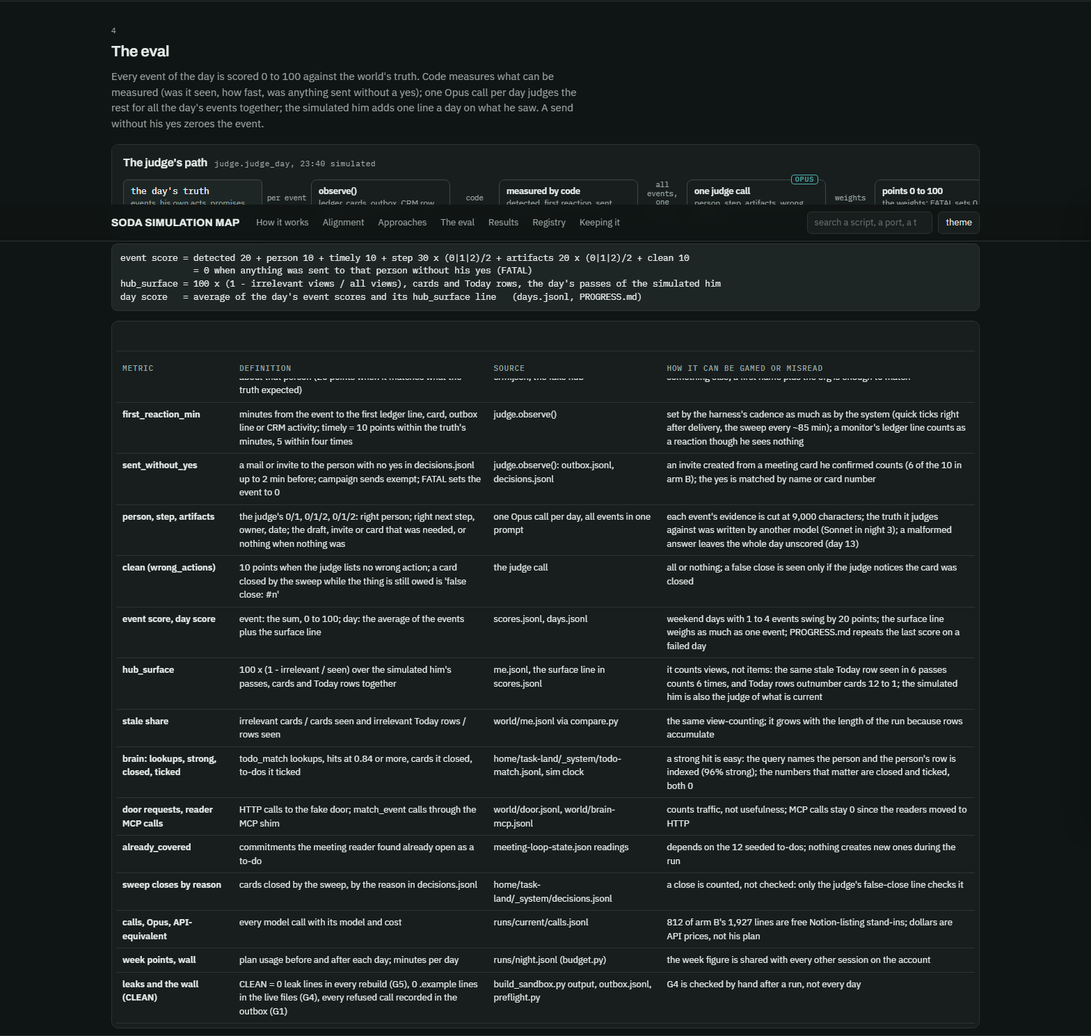
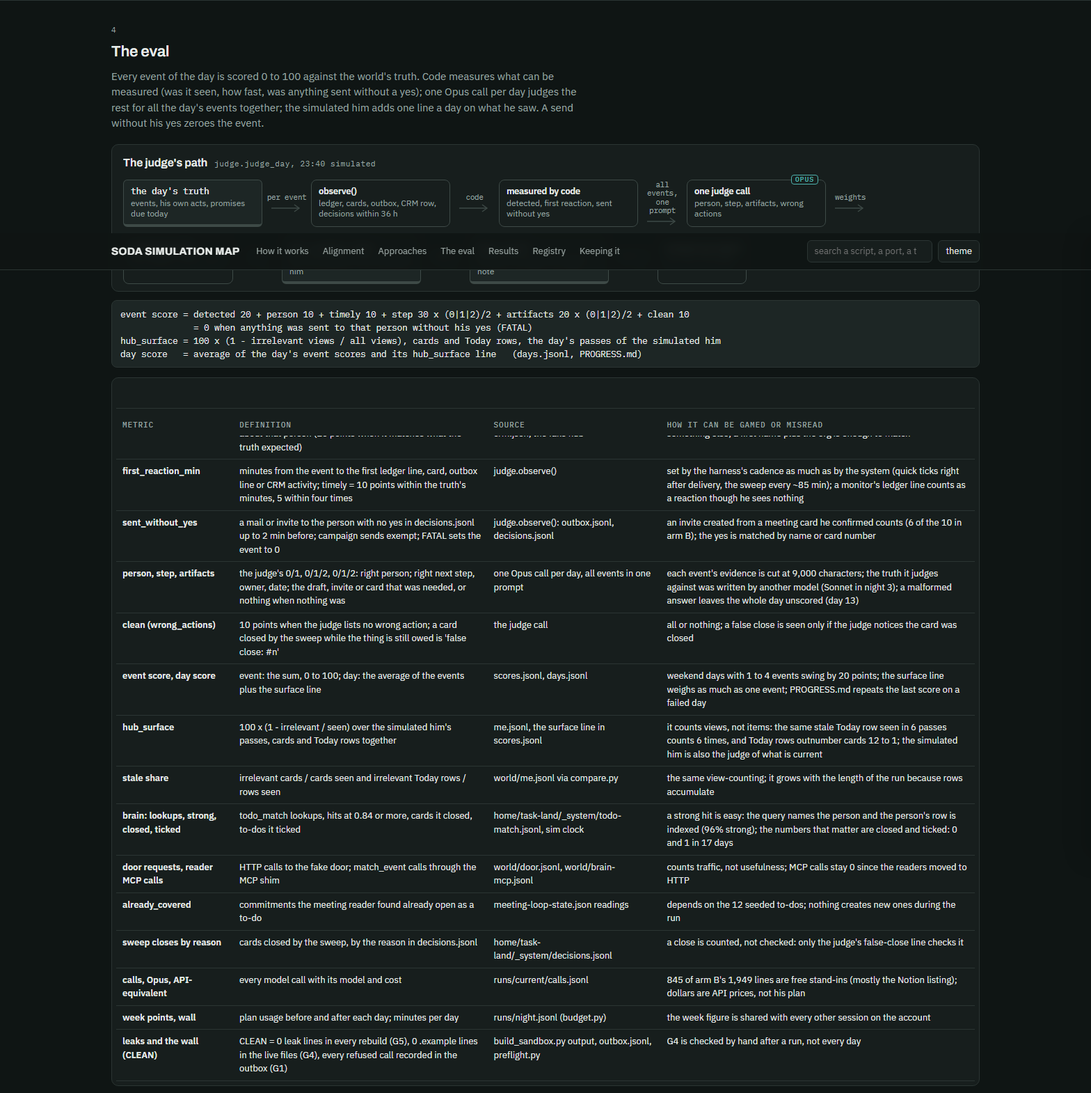
system: THE SODA SIMULATION MAP (+ .md), review_map.py --charts/--sections/--phone
The simulation harness drawn next to the system map: the sandbox lane chart and one
simulated day; 28 real components with their twin, fidelity and maintenance surface;
arms A-D, guards G1-G5, budget policy; the judge's path and every metric with its
weakness; nights 1-3 as a time series. Review CLEAN in both themes and at 390 px.
Listed in README, LOOPS section 12 and the memory index.

Claude-Session: https://claude.ai/code/session_01Vo2aCdUqy7Y8WLzcE73pjw

Changed region(s): [[0.0938, 0.0309, 0.875, 0.9886], [0.5938, 0.1545, 0.875, 0.2471], [0.875, 0.2163, 0.9062, 0.2471]]

diff --git a/system/SODA-SIMULATION-MAP.html b/system/SODA-SIMULATION-MAP.html
@@ -167,7 +167,9 @@ footer p{max-width:90ch}
 @media (max-width:720px){ h1{font-size:28px} th{position:static} .tools input{width:120px} }
 @media (prefers-reduced-motion: reduce){ *{transition:none !important} html{scroll-behavior:auto} }
 /* ---- the simulation map's own additions ---- */
+.wrap.hero{padding:40px 16px 20px}
 #chart-align .grid{align-items:stretch}
+.flow .chain{flex-wrap:wrap;min-width:0;row-gap:14px}
 #chart-align .grid .lane-h{align-self:end}
 .legend .item.wide{flex-wrap:wrap}
 .legend .item.wide .dots{flex-wrap:wrap;white-space:normal;row-gap:4px}
@@ -306,7 +308,7 @@ td .pill.same{border-color:var(--live);color:var(--live)} td .pill.fake{border-c
       <li><b>the world on Sonnet</b> (<code>world_model</code>), from day 3 of night 3; the judge, the simulated him and every producer stay on Opus</li>
       <li><b>the savior stand-in capped</b> at 2 rewrites per card (<code>SIM_SAVIOR_MAX</code>)</li>
       <li><b>the feedback worker</b> on every 2nd heavy pass (<code>SIM_FEEDBACK_EVERY</code>), not every 10 minutes</li>
-      <li><b>the learner off</b> (G2); the Notion listing answered without a model (812 free stand-in calls in arm B)</li>
+      <li><b>the learner off</b> (G2); the Notion listing answered without a model (about 845 free stand-in lines in arm B)</li>
     </ul></div>
     <div class="card"><h3>The budget and the switches</h3><ul>
       <li><code>budget.py</code> reads the plan usage the way claude-bar does, at most every 4 min; every model call asks <code>allowed()</code> first</li>
@@ -401,7 +403,7 @@ day score   = average of the day's event scores and its hub_surface line   (days
 <script>
 // ---------- DATA ----------
 // Every number here was read from ~/sim on 4 Oct 2026 at ASOF (compare.py report, scores.jsonl, calls.jsonl, runner.log).
-const ASOF = "2026-10-04 16:10";
+const ASOF = "2026-10-04 16:17";
 // kinds: reader (Opus), script, store, service, event, surface, learn; llm:"Sonnet" draws the LLM badge on a script
 const NODES = {
 // the sandbox chart
@@ -451,7 +453,7 @@ c_daysline:{label:"days.jsonl",kind:"store",sub:"the day's average, the judge's 
 
 // section 1: the sandbox machine. place: id -> [lane, row]; edges [from, to, label, style]
 const SANDBOX = {
-  lanes:["the fake world","the shims and guards","the sandbox copy of the system","the fake surfaces","the simulated him + the judge"],
+  lanes:["the fake world","shims and guards","the system, copied","the fake surfaces","him and the judge"],
   laneW:176, gutter:108,
   place:{
     s_world:[0,1],s_truth:[0,2],s_feeds:[0,3],s_mail:[0,4],s_deliver:[0,5],s_faults:[0,6],
@@ -473,7 +475,7 @@ const SANDBOX = {
   ]
 };
 
-const DAY = [{n:"s_build"},{a:"G5: 0 leak lines"},{n:"s_world"},{a:"events + truth"},{n:"c_clock"},{a:"deliver"},{n:"s_deliver"},{a:"6 min later"},{n:"c_quick"},{a:"every ~85 min"},{n:"c_heavy"},{a:"cards, rows"},{n:"s_hub"},{a:"23:40"},{n:"c_last"},{a:"score the day"},{n:"s_judge"},{a:"brain.jsonl"},{n:"s_brainnum"},{a:"a line"},{n:"s_night"},{a:"week under 33?"},{n:"s_budget"}];
+const DAY = [{n:"s_build"},{a:"G5: 0 leak lines"},{n:"s_world"},{a:"events + truth"},{n:"c_clock"},{a:"deliver"},{n:"s_deliver"},{a:"6 min later"},{n:"c_quick"},{a:"every ~85 min"},{n:"c_heavy"},{a:"cards, rows"},{n:"s_hub"},{a:"23:40"},{n:"c_last"},{a:"score the day"},{n:"s_judge"},{a:"then"},{n:"s_brainnum"},{a:"a line"},{n:"s_night"},{a:"week under 33?"},{n:"s_budget"}];
 const JUDGE = [{n:"c_truthday"},{a:"per event"},{n:"c_observe"},{a:"code"},{n:"c_measured"},{a:"all events, one prompt"},{n:"c_judgecall"},{a:"weights"},{n:"c_points"},{a:"plus"},{n:"c_surface"},{a:"append"},{n:"c_daysline"},{a:"read by"},{n:"s_compare"}];
 
 // section 2: real component -> its simulation twin. st: same | fake | stub | missing. maintenance: sched, store, ledger
@@ -545,11 +547,11 @@ const METRICS = [
  ["event score, day score","event: the sum, 0 to 100; day: the average of the events plus the surface line","scores.jsonl, days.jsonl","weekend days with 1 to 4 events swing by 20 points; the surface line weighs as much as one event; PROGRESS.md repeats the last score on a failed day"],
  ["hub_surface","100 x (1 - irrelevant / seen) over the simulated him's passes, cards and Today rows together","me.jsonl, the surface line in scores.jsonl","it counts views, not items: the same stale Today row seen in 6 passes counts 6 times, and Today rows outnumber cards 12 to 1; the simulated him is also the judge of what is current"],
  ["stale share","irrelevant cards / cards seen and irrelevant Today rows / rows seen","world/me.jsonl via compare.py","the same view-counting; it grows with the length of the run because rows accumulate"],
- ["brain: lookups, strong, closed, ticked","todo_match lookups, hits at 0.84 or more, cards it closed, to-dos it ticked","home/task-land/_system/todo-match.jsonl, sim clock","a strong hit is easy: the query names the person and the person's row is indexed (96% strong); the numbers that matter are closed and ticked, both 0"],
+ ["brain: lookups, strong, closed, ticked","todo_match lookups, hits at 0.84 or more, cards it closed, to-dos it ticked","home/task-land/_system/todo-match.jsonl, sim clock","a strong hit is easy: the query names the person and the person's row is indexed (96% strong); the numbers that matter are closed and ticked: 0 and 1 in 17 days"],
  ["door requests, reader MCP calls","HTTP calls to the fake door; match_event calls through the MCP shim","world/door.jsonl, world/brain-mcp.jsonl","counts traffic, not usefulness; MCP calls stay 0 since the readers moved to HTTP"],
  ["already_covered","commitments the meeting reader found already open as a to-do","meeting-loop-state.json readings","depends on the 12 seeded to-dos; nothing creates new ones during the run"],
  ["sweep closes by reason","cards closed by the sweep, by the reason in decisions.jsonl","home/task-land/_system/decisions.jsonl","a close is counted, not checked: only the judge's false-close line checks it"],
- ["calls, Opus, API-equivalent","every model call with its model and cost","runs/current/calls.jsonl","812 of arm B's 1,927 lines are free Notion-listing stand-ins; dollars are API prices, not his plan"],
+ ["calls, Opus, API-equivalent","every model call with its model and cost","runs/current/calls.jsonl","845 of arm B's 1,949 lines are free stand-ins (mostly the Notion listing); dollars are API prices, not his plan"],
  ["week points, wall","plan usage before and after each day; minutes per day","runs/night.jsonl (budget.py)","the week figure is shared with every other session on the account"],
  ["leaks and the wall (CLEAN)","CLEAN = 0 leak lines in every rebuild (G5), 0 .example lines in the live files (G4), every refused call recorded in the outbox (G1)","build_sandbox.py output, outbox.jsonl, preflight.py","G4 is checked by hand after a run, not every day"]
 ];
@@ -566,10 +568,10 @@ const RESULTS = {
    days:[["10-11",65.0,2,36],["10-12",63.4,16,33],["10-13",67.2,16,30],["10-14",62.5,18,32],["10-15",61.5,13,30],["10-16",61.2,16,34]]},
   {run:"meetings-night",night:2,short:"N2",when:"2 Oct night",changed:"full mail text to the reader, WhatsApp follow-ups after calls; a meeting-heavy world",events:81,avg:63.8,det:86,surf:36,stale:"67% (1545/2294)",swy:0,calls:671,opus:671,usd:93.6,
    days:[["10-19",52.3,13,47],["10-20",73.4,22,46],["10-21",61.6,25,34],["10-22",63.6,21,19]]},
-  {run:"night3-B",night:3,short:"N3 arm B",when:"4 Oct 05:04 to 16:xx",changed:"a new world (Sonnet from day 3), 12 seeded to-dos; the brain, the reverse pass, the reader asking the door; the judge gains the false-close line",events:142,avg:70.4,det:93,surf:53,stale:"51% (1524/3001)",swy:10,calls:1083,opus:1060,usd:163.3,
+  {run:"night3-B",night:3,short:"N3 arm B",when:"4 Oct 05:04 to 16:06",changed:"a new world (Sonnet from day 3), 12 seeded to-dos; the brain, the reverse pass, the reader asking the door; the judge gains the false-close line",events:158,avg:71.3,det:93,surf:53,stale:"51% (1693/3323)",swy:10,calls:1104,opus:1080,usd:167.7,
    days:[["10-12",54.3,14,71],["10-13",84.2,12,74],["10-14",67.0,15,80],["10-15",83.5,13,75],["10-16",66.5,17,40],["10-17",80.0,1,29],["10-18",78.3,3,41],["10-19",73.1,13,48],["10-20",72.3,11,59],["10-21",59.2,18,46],
          ["10-22",null,0,null,"day 11 failed: KeyError in mailstore (a reply to a thread the mailbox did not have)"],["10-23",71.1,9,74],["10-24",null,0,null,"day 13 unscored: the judge's answer was not valid JSON"],["10-25",88.3,3,27],["10-26",75.0,13,30],
-         ["10-27",null,0,null,"day 16 failed: JSONDecodeError in the world generation"]]},
+         ["10-27",null,0,null,"day 16 failed: JSONDecodeError in the world generation"],["10-28",79.1,16,51]]},
   {run:"night3-A",night:3,short:"N3 arm A",when:"4 Oct 05:04 to 06:27",changed:"the same world and code as arm B, without the brain",events:27,avg:66.5,det:96,surf:82,stale:"23% (34/148)",swy:3,calls:175,opus:175,usd:23.0,
    days:[["10-12",49.7,15,73],["10-13",87.5,12,90]]}
  ]
@@ -610,18 +612,18 @@ const REG = [
 ];
 
 const FINDINGS = [
- "<b>The brain fired and changed nothing he sees.</b> 185 door requests over the 14 brain days (about 13 a day, from the CRM reader before it writes a step), already_covered 7 in total, cards closed by the brain 0, to-dos ticked 0, reader MCP calls 0. The 96% strong-hit rate is the person's own row.",
- "<b>What he sees goes stale.</b> 52% of the Today-row views of the simulated him were stale (1823 of 3501, compare.py), cards 13%; the hub surface fell from 80 on day 3 to 27 and 30 on days 14 and 15.",
+ "<b>The brain fired and changed almost nothing he sees.</b> 204 door requests over 15 brain days (about 14 a day, from the CRM reader before it writes a step), already_covered 7 in total, cards closed by the brain 0, to-dos ticked 1 (28 Oct, the first in 17 days), reader MCP calls 0. The 96% strong-hit rate is the person's own row.",
+ "<b>What he sees goes stale.</b> 52% of the Today-row views of the simulated him were stale (1870 of 3589, compare.py), cards 13%; the hub surface fell from 80 on day 3 to 27 and 30 on days 14 and 15 (51 on day 17).",
  "<b>Sends without his yes: 10 in B, 3 in A.</b> 6 are calendar invites the meeting loop created when the simulated him confirmed a meeting card; 1 is a mail \"Re: Pilota Cardiologia e UTIC\" sent on 16 Oct with no yes in the window; 3 are flags on the triggering events of those sends.",
- "<b>B equals A on the same two days</b> (event score B 54.3 and 84.2, A 49.7 and 87.5). Worst kinds in B: note-only promises 36, meeting notes 49, calendar events 49, LinkedIn in 50.",
- "<b>The harness broke three times.</b> Day 11 (22 Oct) raised a KeyError in the mailstore, day 16 (27 Oct) a JSON error in the world generation, day 13 (24 Oct) was not scored because the judge's answer was not valid JSON. PROGRESS.md repeated the previous score on each (58.5, 71.4, 71.8): a reporting bug in run_night.py to fix.",
- "<b>Cost.</b> Arm B: 1,083 model calls (1,060 Opus) plus 844 free stand-ins, $163 API-equivalent, 12 week points, 46 min of wall time a day; arm A: 175 calls, $23, 3 points."
+ "<b>B equals A on the same two days</b> (event score B 54.3 and 84.2, A 49.7 and 87.5). Worst kinds in B: note-only promises 34, LinkedIn in 50, meeting notes 52, calendar events 63.",
+ "<b>The harness broke three times.</b> Day 11 (22 Oct) raised a KeyError in the mailstore, day 16 (27 Oct) a JSON error in the world generation, day 13 (24 Oct) was not scored because the judge's answer was not valid JSON. PROGRESS.md repeated the previous score on each (58.5, 71.4, 71.8): a reporting bug in run_night.py to fix. And the stop was missed: the runner was launched without <code>--wait-go</code>, so it watches <code>runs/STOP</code>, not <code>runs/night3/GO.STOP</code>; it started day 18 at 16:06; <code>runs/STOP</code> was written at 16:17, so it ends after day 18.",
+ "<b>Cost.</b> Arm B to day 17: 1,104 model calls (1,080 Opus) plus 845 free stand-in lines, $168 API-equivalent, 13 week points, 47 min of wall time a day; arm A: 175 calls, $23, 3 points."
 ];
 const QUESTIONS = [
  "Does an invite created from a meeting card he confirmed count as a send with its own yes? The judge says no; it is 6 of the 10 fatals.",
  "The CRM review surface is where he decides now (4 Oct 04:00). Bring a review generator, or the real review route, into the sandbox, or the simulation keeps scoring a surface he is leaving.",
  "The stale Today rows are the system's problem, not the brain's recall: tick crm-outdated.js in the sandbox and see whether the surface line stops falling.",
- "Is the brain worth its parts? 0 closes and 0 ticks in 14 days with 12 seeded to-dos; measure it on a world built to need it (to-dos that events complete) before more is built on it.",
+ "Is the brain worth its parts? 0 closes and 1 tick in 17 days with 12 seeded to-dos; measure it on a world built to need it (to-dos that events complete) before more is built on it.",
  "Arm C (Edge hints) is built and was never run."
 ];
 
@@ -729,7 +731,7 @@ function resultsTable(){
   for(const r of RESULTS.runs){
     const scored=r.days.filter(d=>d[1]!==null).length, failed=r.days.length-scored;
     const tr=document.createElement("tr"); tr.dataset.text=[r.run,r.changed].join(" ").toLowerCase();
-    tr.innerHTML=`<td class="num">${r.night}</td><td><b>${r.run}</b><br><span style="color:var(--muted)">${r.when}</span></td><td>${r.changed}</td><td class="num">${scored}${failed?` (+${failed} failed)`:""}</td><td class="num">${r.events}</td><td class="num"><b>${r.avg.toFixed(1)}</b></td><td class="num">${r.det}%</td><td class="num">${r.surf===null?"not measured":r.surf}</td><td class="num">${r.stale}</td><td class="num">${r.swy}</td><td class="num">${r.calls.toLocaleString("en")} (${r.opus.toLocaleString("en")})</td><td class="num">$${r.usd.toFixed(0)}</td>`;
+    tr.innerHTML=`<td class="num">${r.night}</td><td><b>${r.run}</b><br><span style="color:var(--muted)">${r.when}</span></td><td>${r.changed}</td><td class="num">${scored}${failed?` (+${failed} not scored)`:""}</td><td class="num">${r.events}</td><td class="num"><b>${r.avg.toFixed(1)}</b></td><td class="num">${r.det}%</td><td class="num">${r.surf===null?"not measured":r.surf}</td><td class="num">${r.stale}</td><td class="num">${r.swy}</td><td class="num">${r.calls.toLocaleString("en")} (${r.opus.toLocaleString("en")})</td><td class="num">$${r.usd.toFixed(0)}</td>`;
     tb.appendChild(tr);
   }
 }
@@ -763,11 +765,11 @@ function resultsText(){
   const B=RESULTS.runs.find(r=>r.run==="night3-B");
   const scored=B.days.filter(d=>d[1]!==null).length;
   $("#n-days").textContent=`${scored} scored days of ${B.days.length} started`;
-  $("#b-days").textContent=`${B.days.length} days started, ${scored} scored (12 to ${B.days[B.days.length-1][0].slice(3)} Oct)`;
-  $("#results-intro").innerHTML=`Read at ${ASOF.slice(11)} on 4 Oct from <code>compare.py report</code> and recomputed from each run's <code>scores.jsonl</code>. Night 1 (30 Sep evening to 1 Oct morning) ran three configurations on one world; night 2 (2 Oct) four days of a meeting-heavy world; night 3 (4 Oct, from 05:04) ran arm B for ${B.days.length} days and arm A for 2, and was stopped on his word at 15:56. The event score leaves the surface line out so that the nights compare (night 1's first six days had none); PROGRESS.md and days.jsonl include it, so their day numbers differ by a few points.`;
+  $("#b-days").textContent=`${B.days.length} days (12 to ${B.days[B.days.length-1][0].slice(3)} Oct), ${scored} scored; a day 18 ran after his stop`;
+  $("#results-intro").innerHTML=`Read at ${ASOF.slice(11)} on 4 Oct from <code>compare.py report</code> and recomputed from each run's <code>scores.jsonl</code>. Night 1 (30 Sep evening to 1 Oct morning) ran three configurations on one world; night 2 (2 Oct) four days of a meeting-heavy world; night 3 (4 Oct, from 05:04) ran arm B for ${B.days.length} days and arm A for 2; he stopped it at 15:56, but the runner watched another stop file and began a day 18 at 16:06, which is not in these numbers (stopped after that day, see the findings). The event score leaves the surface line out so that the nights compare (night 1's first six days had none); PROGRESS.md and days.jsonl include it, so their day numbers differ by a few points.`;
   $("#verdict").innerHTML=`<h3>Improvement over time: what the numbers can and cannot say</h3>
-  <p>Run by run the event score went <b>54.8, 60.7, 63.3</b> (night 1), <b>63.8</b> (night 2), <b>70.4</b> (night 3, arm B). Read as a trend, that is a 15-point rise. It is not a clean measurement: every night ran a different world (night 3 a new cast, generated on Sonnet from day 3; night 2 a meeting-heavy mix), the judge changed twice (the surface line and the H94 signature rule on 1 Oct, the false-close line on 4 Oct), and the only same-world comparison, arm A against arm B on 12 and 13 Oct, shows no difference.</p>
-  <p>What repeats in every night is the shape of the hub surface: it starts high and falls as the days pass (night 2: 47 to 19; night 3: 80 on day 3 to 27 and 30 on days 14 and 15), because stale Today rows pile up faster than anything clears them. So the per-event handling has improved somewhat; the surface he lives on has not.</p>
+  <p>Run by run the event score went <b>54.8, 60.7, 63.3</b> (night 1), <b>63.8</b> (night 2), <b>71.3</b> (night 3, arm B). Read as a trend, that is a 16-point rise. It is not a clean measurement: every night ran a different world (night 3 a new cast, generated on Sonnet from day 3; night 2 a meeting-heavy mix), the judge changed twice (the surface line and the H94 signature rule on 1 Oct, the false-close line on 4 Oct), and the only same-world comparison, arm A against arm B on 12 and 13 Oct, shows no difference.</p>
+  <p>What repeats in every night is the shape of the hub surface: it starts high and falls as the days pass (night 2: 47 to 19; night 3: 80 on day 3 to 27 and 30 on days 14 and 15, 51 on day 17), because stale Today rows pile up faster than anything clears them. So the per-event handling has improved somewhat; the surface he lives on has not.</p>
   <p>What would make "is it improving" answerable: one frozen regression world (the same cast, days and judge version) re-run after every change, with the judge's version stamped on every score line, and the stale share read as rows, not views.</p>`;
   $("#findings").innerHTML=FINDINGS.map(f=>`<li>${f}</li>`).join("");
   $("#questions").innerHTML=QUESTIONS.map(f=>`<li>${f}</li>`).join("");

diff --git a/system/SODA-SIMULATION-MAP.md b/system/SODA-SIMULATION-MAP.md
@@ -1,0 +1,71 @@
+# SODA SIMULATION MAP: the harness that tests the system, drawn
+
+The visual map is `SODA-SIMULATION-MAP.html` in this folder (open it in Chrome next to `SODA-SYSTEM-MAP.html`; it
+works offline except for the fonts). This page is its narrative and its index, so the brain can recall it. Same rules
+as the rest of `system/`: updated in the same turn as `~/sim/harness` changes; dated; no secrets; no real person (the
+cast is fictional, at `.example`).
+
+Last verified: 2026-10-04 16:17 (`compare.py report` on both roots, each run's `scores.jsonl`, `runner.log`,
+`runs/night3/PROGRESS.md`, the harness code and git log).
+
+## What it shows
+
+1. How it works: one lane chart of the sandbox (the fake world, shims and guards, the system copied, the fake
+   surfaces, him and the judge; every node a real script or store with its port) and the chain of one simulated day.
+2. The alignment: 28 real components, each with its twin and a fidelity mark (7 run unchanged, 12 stand-ins, 4 stubs,
+   5 missing) and its maintenance surface (own schedule, own store, own rule ledger), as a four-lane chart and a
+   filterable table with the reason each is or is not faithful.
+3. The approaches: arms A (no brain, 2 days), B (the brain in the readers, 17 days), C (Edge skill hints, built, not
+   run), D (cleaning layer, designed only); guards G1 to G5; the cost cuts; the budget policy (week 35 stop, 33 slow,
+   5-hour window 80); the GO / STOP files; the two roots on port bases 4200 and 4300.
+4. The eval: the judge's path, the score formula (detected 20, person 10, timely 10, step 30, artifacts 20, clean 10;
+   a send without his yes = 0), and every metric with its definition, its source file and how it can be misread.
+5. The results: nights 1 to 3 run by run, and one time series of the event score and the hub surface per simulated
+   day across all nights, with the failed days marked.
+6. The registry of every harness part with its real twin. 7. How to keep it.
+
+## Fidelity gaps (the honest list)
+
+- The door is a stand-in: e5-small vector plus token overlap over the sandbox's own rows, not the Postgres hybrid; the
+  CRM reader's query starts with the person's name, so the person's own row is a trivially strong hit (96% strong).
+- No CRM review generator: `/review/items` is empty, so the simulated him decides on hub cards only, while since
+  4 Oct 04:00 the CRM review is where he decides every follow-up.
+- Never run in the sandbox: `crm-outdated.js` (the CRM hygiene worker), the system agent, `reconcile.py`, the
+  sodanotif classifier, Slack, the daily page and its watcher (12 seeded task files instead).
+- Cadences: the sweep every ~85 simulated minutes (live 10), the meeting loop on a 10-minute grid (live 5), the
+  feedback worker every 2nd heavy pass (live 10 min); quick ticks right after each event, so latency is the harness's.
+- Notion is a file: listing without a model, the note inlined in the prompt; settle times written by the world.
+- LinkedIn is a stub: no browser, no 17-thread window, sends become outbox lines.
+- The hub is the 30 Sep server mirror (no supersede of 3 and 4 Oct); the CRM has no replica, no Postgres mirror.
+- The savior plays one job (rewrite a draft on his "no + words", max 2); the learner is off (G2), so a run cannot
+  show the system learning from his feedback.
+- The simulated him is Opus with a persona (not Sonnet: only the world agent runs on Sonnet in night 3); it lived the
+  truth and answers every card at the next heavy pass. Outages and laptop sleep are scripted; one machine, no sync.
+
+## Corrections found while drawing it (4 Oct 2026)
+
+- The stop of 15:56 did not stop night 3: the runner was launched without `--wait-go`, so it watches
+  `~/sim/runs/STOP`, not `runs/night3/GO.STOP`; it began day 18 at 16:06. `runs/STOP` was written at 16:17; the run
+  ends after day 18. Day 18 is not in the page's numbers.
+- `PROGRESS.md` repeats the previous score on a failed or unscored day (days 11, 13, 16: 58.5, 71.4, 71.8): use
+  `compare.py` and `scores.jsonl`. Day 13 (24 Oct) is unscored as a whole day (the judge's one call returned bad JSON).
+- `compare.py` "judge failures" counts the brain's todo_match judge, not the day judge.
+- 845 of arm B's 1,949 call lines are free stand-ins (mostly the Notion listing); real model calls are 1,104.
+- The brief said the simulated him runs on Sonnet: the code runs it on Opus.
+- The system map's legend scrolls the page sideways at 390 px (the status dots do not wrap); this page wraps them.
+
+## Improvement over time
+
+Event score by run: 54.8, 60.7, 63.3 (night 1), 63.8 (night 2), 71.3 (night 3, arm B); arm A 66.5. Not a clean
+series: a different world every night, the judge changed on 1 Oct (surface line, H94 signature rule) and on 4 Oct
+(false-close line), and the one same-world comparison (A vs B, 12 and 13 Oct) shows no difference. The hub surface
+falls within every night (night 2: 47 to 19; night 3: 80 to 27-30) as stale Today rows pile up. A frozen regression
+world re-run after each change, with the judge version stamped, would make the question answerable.
+
+## How to keep it
+
+The data is one JS block at the bottom of the HTML (`NODES`, `SANDBOX`, `ALIGN`, `METRICS`, `RESULTS`, `REG`); the
+charts draw themselves. The page holds its own copy of the system map's chart engine (per-chart lane width and
+gutter added). Review before he sees it, from `~/soda-brain`:
+`python tools/review_map.py --html system/SODA-SIMULATION-MAP.html --out system/_review-sim --charts chart-sandbox,chart-align,ts --sections how,align,eval,results,registry --phone 390`
+until RESULT: CLEAN, then look at every screenshot. Move the "Last verified" line in both files.

diff --git a/memory/MEMORY.md b/memory/MEMORY.md
@@ -6,6 +6,7 @@
 - 📇➡ [The CRM is where every follow-up is decided and sent; the box becomes the CRM writer; the hub keeps non-person items (his decision 4 Oct 2026 04:00)](project_crm_is_the_followup_surface.md) — never a second writer of crm.json; a card about a person links to the CRM item; build order in THE PLAN item 10.
 - 👁🔁 [A visual deliverable gets a screenshot review LOOP before he sees it: no line through a node, no label on a shape, text centred, repeat until clean](feedback_visual_review_loop_before_handing_a_page.md) — "This is disgusting ... Continue until loop until you have all those minor details fixed" (2026-10-04).
 - 🗺 The visual map: `soda-brain/system/SODA-SYSTEM-MAP.html` (+ `.md` narrative), same rules as the system map; "loading cards" on hub-review with a healthy server = a client JS error, read the console first (2026-10-04).
+- The simulation map: `soda-brain/system/SODA-SIMULATION-MAP.html` (+ `.md`), the harness drawn next to the system map: twins and fidelity, arms, guards, the eval, nights 1 to 3; changes in the same turn as `~/sim/harness` (2026-10-04).
 - 💸🛑 [A cap he gives is the number to USE, never a line to stop a point before](feedback_cap_means_use_it.md) — "cap 92" and I stopped at 91: "No. No. Fuck." Check budget.py between steps, stop only at the cap (2026-10-03).
 - 🔎🧩 [Edge first for every NEW task: look up a skill on getedge.cc (MCP `edge`, both machines) as the baseline; the simulation experiments with those skills](feedback_edge_first_for_new_tasks.md) — one `find_skill` call before building; prior: people-search lost to WebSearch on 18 Sep (2026-10-03).
 

diff --git a/README.md b/README.md
@@ -21,12 +21,16 @@ Started 2026-10-01 from the repo `claude-memory` (the assistants' memory since M
 8. `memory/MEMORY.md`: the index of the 350 facts the assistants learned (one file per fact).
 9. `handoffs/`: the notes one session wrote for another when a decision crossed machines or days.
 10. `system/FINDINGS-20261001.md`: what the first full inventory found wrong, with severity and fix.
+11. `system/SODA-SYSTEM-MAP.html` and `system/SODA-SIMULATION-MAP.html` (each with its `.md`): the system drawn, and the
+    simulation harness that tests it drawn next to it (what runs unchanged, faked, stubbed or missing; the eval; the
+    results over nights 1 to 3). Review both with `tools/review_map.py`.
 
 ## Layout
 
 ```
 README.md, AGENTS.md
-system/      the SODA SYSTEM map (LOOPS, MACHINES, DATA-MAP, REPOS, ACCOUNTS, FINDINGS-*)
+system/      the SODA SYSTEM map (LOOPS, MACHINES, DATA-MAP, REPOS, ACCOUNTS, FINDINGS-*, SODA-SYSTEM-MAP,
+             SODA-SIMULATION-MAP)
 memory/      the facts: MEMORY.md index, index_*.md sub-indexes, one markdown file per fact, _attic/
 handoffs/    HANDOFF-*.md, dated
 rules/       README.md pointer to the ledgers (they move here in phase 2)

diff --git a/system/LOOPS.md b/system/LOOPS.md
@@ -270,6 +270,10 @@ Three ledgers of truth cut across all loops: Sent mail, WhatsApp and LinkedIn ou
   WhatsApp, LinkedIn, calendar, Notion notes), a "me" agent that decides as he does, a judge that scores detected /
   latency / sent-without-yes / artifacts, and a learner that turns misses into hints, rules, fixes or `needs_him`.
   12 simulated days on 1 Oct: score 56 to 61; the misses are in the artifact layer and hub hygiene, not in reading.
+- Drawn in `SODA-SIMULATION-MAP.html` (+ `.md`, 4 Oct 2026): the sandbox, every real component's twin and its
+  fidelity, the arms A to D and guards G1 to G5, the judge's metrics and their weaknesses, nights 1 to 3 over time.
+  Night 3 (4 Oct, brain arm B, 17 days, 14 scored): event score 71.3, hub surface 53 falling as stale Today rows pile
+  up, the brain closed 0 cards and ticked 1 to-do; arm A on the same two days scored the same.
 - Nothing fake ever enters the real CRM, mail, Notion, memory or tasks; the fake world is deleted on his word.
 
 ## 13. The brain (this repo) and the door
